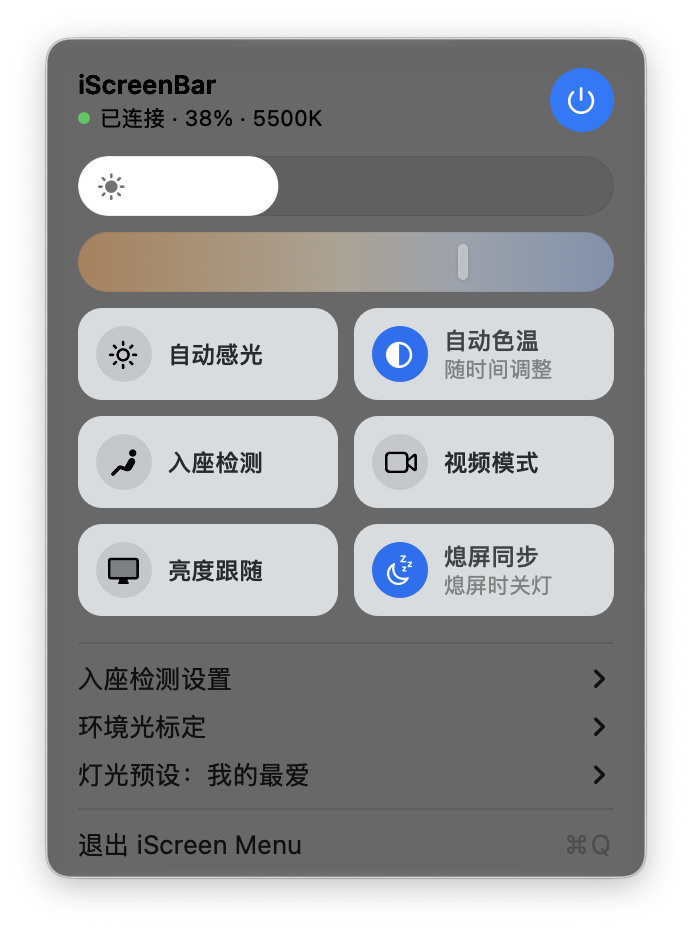
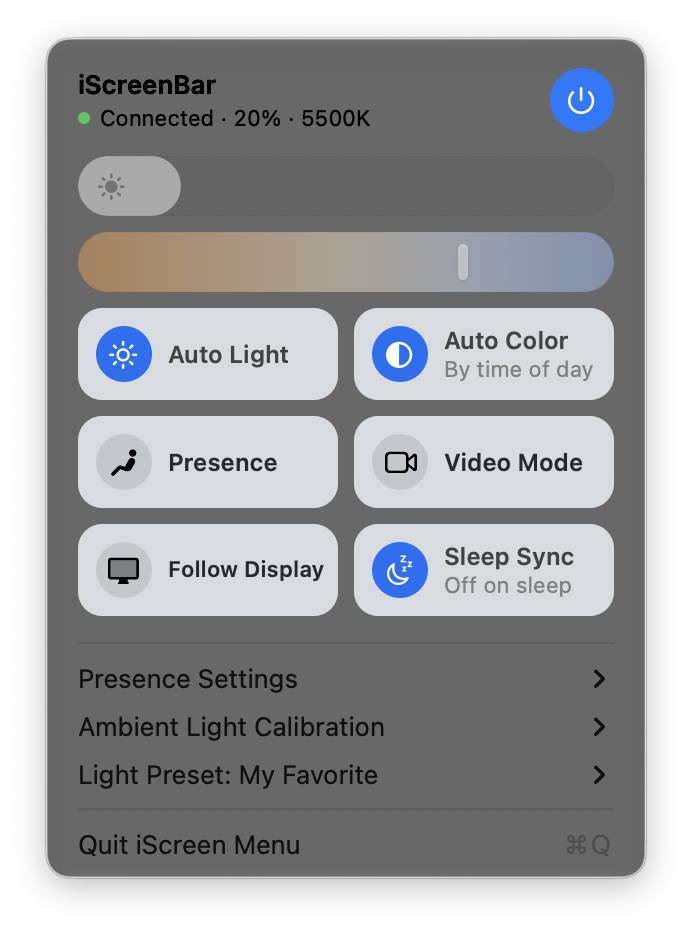
docs: translate docs to English and refresh screenshot

diff --git a/docs/FEATURES.md b/docs/FEATURES.md
@@ -1,0 +1,184 @@
+# iScreen Menu Feature List
+
+> Reflects the version currently installed from the `main` branch. This is an unofficial macOS menu bar tool that runs locally.
+
+## 1. Menu Bar and Runtime Status
+
+- Click the menu bar icon to open the system menu: the lighting panel is at the top, followed by native submenus and "Quit" (⌘Q).
+- Monochrome icon: the central ring is always lit, and the 8 rays around it light up according to brightness; the rays fade when the lamp is off or disconnected.
+- When the USB connection, Studio Display detection or the lamp power command fails, a small dot appears at the bottom right of the icon and the top of the panel shows "Sync error (同步异常)".
+- Hovering over the icon shows the current brightness and colour temperature of the iScreenBar.
+- The lamp state is read actively when the menu is opened; synchronisation and state read-back continue while the menu is expanded.
+- Runs automatically after login through a user-level LaunchAgent, with no administrator privileges required; after quitting from the menu it stays quit, and it restarts automatically only after an abnormal exit.
+
+## 2. Basic iScreenBar Control
+
+- **Lamp switch**: the round button at the top right of the panel turns the iScreenBar on or off directly.
+- **Brightness adjustment**: 1%--100%, adjustable with the slider in the panel.
+- **Colour temperature adjustment**: 2700K--6500K, adjustable in 100K steps.
+- **State read-back**: reads the power, brightness, main light/back light colour temperature, auto light, presence detection and video mode states.
+- **Manual operation compatibility**: after a physical button on the lamp changes its state, the tool reads the state again and refreshes the interface.
+- **Adjusting while the lamp is off**: dragging brightness/colour temperature, toggling Auto Light (自动感光) or applying a preset turns the lamp on first and writes the value after about 0.5 seconds; adjustments of the same kind made during the wait keep only the latest one. This does not turn the lamp on while an ambient light rule has switched it off.
+
+## 3. Studio Display Sleep Sync (熄屏同步)
+
+- When the Studio Display turns off its screen or goes to sleep, the iScreenBar is turned off automatically.
+- When the Studio Display wakes, the lamp is turned back on automatically if it was turned off by this tool.
+- While the screen is off, power synchronisation has the highest priority: lamp auto light, presence detection or any other logic must not turn the lamp back on.
+- The "Sleep Sync" toggle turns this feature on or off independently.
+
+## 4. iScreenBar Brightness Follows Studio Display
+
+- When Follow Display (亮度跟随) is turned on, the current brightness difference between the iScreenBar and the Studio Display is recorded.
+- After that, when the Studio Display brightness is adjusted, the iScreenBar changes by the same fixed difference.
+- The iScreenBar minimum brightness limit of 1% is preserved.
+- After it is turned off, the lamp keeps its current brightness and does not return to an old value.
+- Lamp auto light and this feature are mutually exclusive: turning one on turns the other off automatically, so that two brightness sources never control the lamp at the same time.
+
+## 5. Lamp Auto Light
+
+- The iScreenBar's built-in ambient light sensor can be turned on or off from the menu panel.
+- When on, the lamp's official auto light state is used; when off, the current manual brightness is written to exit auto mode.
+- The interface shows the actual state read back from the lamp, including a brief transition while the command is confirmed.
+- Known lamp firmware behaviour: the physical auto light button can enter or recalibrate auto mode, but may not exit it reliably; the menu panel can run a verifiable turn-off procedure.
+
+## 6. Studio Display Ambient Light Calibration (环境光标定) and Automatic On/Off
+
+- Reads the Studio Display ambient light sensor directly; the lamp's sensor is not used as the data source for this set of rules.
+- Uses the median of the samples from the last 10 seconds as the "ambient response score" to reduce momentary light fluctuations.
+- **Bright turn-off point**: the current value is captured when clicked; the lamp is turned off after the value stays above it for 30 seconds.
+- **Dim turn-on point**: the current value is captured when clicked; the lamp is turned on after the value stays below it for about 30 seconds.
+- After an ambient turn-off there is also a gradual turn-back-on path of about 45 seconds that tolerates small fluctuations, to avoid repeated flickering or the lamp staying off for too long.
+- The two calibration points can exist separately; setting both is not required.
+- A calibration button lights up briefly only when capture succeeds, and the saved value stays beside it.
+- A separate enable switch decides whether the saved thresholds are applied; turning it off does not delete the calibrated values.
+- If the turn-on point is higher than or equal to the turn-off point, the interface warns of a threshold overlap risk.
+- Once the ambient turn-off lock is engaged, lamp auto light and presence detection cannot turn the lamp back on.
+- If presence detection was on before the lamp was turned off, it is paused temporarily and resumes automatically after the ambient turn-off lock is released.
+- Sleep Sync has higher priority than the ambient light rules: when the screen is off, the lamp does not turn on even if the environment becomes dim.
+
+## 7. Presence / Away Detection
+
+- Lamp presence detection (入座检测) can be turned on or off in the panel.
+- Away time supports 3, 5 and 10 minutes.
+- Detection sensitivity supports three levels: low, medium and high.
+- Settings are sent to the lamp directly when it supports them; if sending fails, the local choice is kept and a log entry is written.
+- Works together with the ambient turn-off lock to avoid "the lamp turning back on when the person moves after it was turned off".
+
+## 8. Video Mode
+
+- The iScreenBar Video Mode (视频模式) can be turned on or off from the panel.
+- The video mode state is read back from the lamp and can be saved as part of a lighting mode preset.
+
+## 9. Auto Colour Temperature
+
+- "Auto Color (自动色温)" adjusts the lamp colour temperature smoothly according to the time of day.
+- 00:00--06:00: 3000K.
+- 06:00--10:00: gradual transition from 3000K to 5500K.
+- 10:00--16:00: 5500K.
+- 16:00--21:00: gradual transition from 5500K to 3500K.
+- 21:00--24:00: gradual transition from 3500K to 3000K.
+- Uses 50K as the internal transition step and writes to the lamp at most once per minute.
+- No colour temperature is written while the lamp is off or the Studio Display screen is off.
+- After auto colour temperature is turned off, the current colour temperature is kept.
+
+## 10. Lighting Mode Presets
+
+- Built-in "My Favorite (我的最爱)" default: 47% / 5500K / video mode off.
+- Built-in "Night Work (夜间工作)": 30% / 4000K / video mode off.
+- Built-in "Wind Down (睡前放松)": 20% / 3000K / video mode off.
+- The current brightness, colour temperature and video mode can be saved as a custom scene.
+- The "Mode Center (模式中心)" lists the available modes and supports quick application.
+- Applying a preset automatically turns the lamp on, writes brightness and colour temperature, sets the video mode, and turns off iScreenBar brightness follow.
+- The current lighting mode can be bound to a specific macOS app; when the foreground app changes, the corresponding mode is applied automatically.
+
+## 11. USB Disconnection, Reconnection and Fault Tolerance
+
+- The iScreenBar USB HID connection is checked every 2 seconds.
+- When the lamp is unplugged, loses power or HID commands stop working, the icon shows the error dot and a log entry is written.
+- After the lamp is plugged back in, the HID Manager is rebuilt, the state is read again, and the sleep sync and brightness follow locks are restored.
+- When the Studio Display is disconnected the program stays resident, and after it reconnects the display listener and the ambient light sensor connection are rebuilt automatically.
+- All key states and errors are written to `~/Library/Logs/iScreenBarStudioSync.log`.
+
+## 12. Interface and Interaction
+
+- Native AppKit system menu, no Dock icon required, adapts automatically to light/dark mode.
+- Two-column toggle cards: the round SF Symbols icon uses the accent colour when on, and some toggles show a short description when on.
+- The brightness slider has a white fill; the colour temperature slider is a warm-to-cool gradient with a white marker; clicking anywhere on the track jumps to that position, and the value is written to the lamp on release.
+- The brightness slider is greyed out when auto light is on, and the colour temperature slider is greyed out when auto colour temperature is on; related controls are greyed out when the lamp is offline.
+
+## 13. Local Storage, Privacy and Installation
+
+- All switches, thresholds, presets and app bindings are stored in the local `UserDefaults`.
+- No account, cloud service, network API or analytics is required.
+- The install script compiles locally, signs ad hoc, installs to `~/Applications`, and creates a user-level LaunchAgent.
+- The uninstall script stops the service and moves the installed app and the LaunchAgent to the Trash; the log is kept by default for troubleshooting.
+
+## 14. Implementation Limits and Risk Notes
+
+- Verified on an Apple Silicon Mac, macOS 26, Apple Studio Display and BenQ iScreenBar `VID 0x04A5 / PID 0x2501`.
+- iScreenBar control uses a device-specific 33-byte HID report; compatibility with other models is not guaranteed.
+- Studio Display brightness reading uses the private macOS DisplayServices interface, which needs regression testing on real hardware after system upgrades.
+- The Studio Display is identified by Apple vendor ID 0x0610 and product IDs 0xAE46 / 0xAE3A; models not listed are identified by the display name "Studio Display".
+- Some details of lamp auto light and presence detection depend on the lamp firmware version.
+
+## 15. Feature Priority
+
+1. Studio Display sleep sync: the lamp stays off while the screen is off.
+2. Studio Display ambient turn-off lock: once the bright threshold is reached, presence detection, auto light and manual adjustment are prevented from turning the lamp back on.
+3. Lamp auto light and iScreenBar brightness follow are mutually exclusive.
+
+## 16. Differences from the Official BenQ iScreenBar App
+
+> The comparison is based on the official BenQ iScreenBar product page, quick start guide and public feature descriptions. The official app is updated by region and version; the comparison below is based on public material as of August 2026 and the official app on this machine.
+
+### 16.1 Features Both Have
+
+| Feature | Official BenQ App | This tool | Main difference |
+| --- | --- | --- | --- |
+| Lamp switch | Supported | Supported | This tool adds USB offline error indication and reconnection recovery. |
+| Brightness and colour temperature | Supported | Supported | The official app advertises stepless 0--100% brightness and 2700K--6500K; this tool writes the steps that can be verified over the lamp's HID interface. |
+| Auto light | Supported | Supported | Both use the lamp's ambient light sensor; this tool additionally handles mutual exclusion with brightness follow. |
+| Presence detection | Supported | Supported | The official app uses a 24GHz millimetre-wave sensor and allows the detection range to be adjusted; this tool provides away time and sensitivity controls. |
+| Video mode | Supported | Supported | The official app can enable it automatically together with the iMac camera; this tool currently relies mainly on a manual switch and mode presets. |
+| Lighting modes | Supported | Supported | Both can save combinations of brightness, colour temperature and so on. |
+| Per-app mode binding | Supported | Supported | Both can apply the corresponding lighting mode when the foreground app changes. |
+| Turn lamp on/off with the display | Supported | Supported | The official app targets compatible iMacs; this tool fills in the standalone Studio Display screen-off scenario. |
+
+### 16.2 Features This Tool Adds over the Official App
+
+- **Dedicated Studio Display support**: the officially published compatibility range is 2021 and later iMacs and does not include the Apple Studio Display; this tool specifically listens for Studio Display sleep, screen-off, wake and disconnect/reconnect.
+- **Studio Display brightness linked to the lamp**: keeps the brightness difference between the lamp and the display, and changes the iScreenBar in step when the Studio Display is adjusted.
+- **Studio Display ambient light threshold control**: the "bright turn-off point" and "dim turn-on point" can be captured separately, and the lamp is turned on and off automatically using the median, duration and priority rules.
+- **Auto colour temperature**: changes smoothly between 3000K--5500K according to the time of day, rather than relying only on manual steps or fixed modes.
+- **Visible health status**: the menu bar icon shows brightness by the number of rays, shows an indicator dot on errors, and shows brightness and colour temperature on hover.
+- **Clearer rule priorities**: there are explicit mutual exclusion and recovery rules among sleep, ambient turn-off, presence detection, auto light and brightness follow.
+- **USB fault tolerance and logging**: the HID Manager is rebuilt automatically after the lamp is unplugged and replugged, and a local log is kept for troubleshooting.
+- **Local and auditable**: configuration is stored only on this machine, with no account, cloud or analytics; the source code is public under the MIT licence.
+
+### 16.3 Where the Official App Currently Has the Advantage
+
+- **Official signing, release and firmware support**: the official app is maintained by BenQ and has formal support for firmware upgrades, regional versions and lamp protocol changes.
+- **Native iMac compatibility**: the official app is designed around the hardware, power supply, camera and wake flow of 2021 and later iMacs, so its compatibility boundary is clearer.
+- **Automatic video mode from the camera**: official material states that camera mode can be activated automatically when connected through the iMac USB-C port; this tool does not yet implement reliable detection of camera use.
+- **Official lamp memory semantics**: the "My Favourite / memory" stored on the lamp itself is managed by the firmware; this tool's mode presets are mainly stored in the Mac's `UserDefaults`, which is not the same kind of hardware memory.
+- **Polish and support channels**: the official app has more complete onboarding, upgrades, signing, notarisation, customer service and warranty support.
+- **Lower risk on system upgrades**: this tool reads Studio Display brightness through a private macOS interface and must be re-verified after system upgrades.
+
+### 16.4 Not Yet Fully Aligned or Still to Be Verified
+
+- Automatically switching video mode when the camera is enabled.
+- The protocol the official app uses to read, overwrite and recall the lamp's hardware "My Favourite" memory.
+- All time steps of the official presence detection and the sensitivity mapping across firmware versions.
+- The exact behaviour of official mode binding when apps quit, in full screen, across multiple Spaces and in multi-user sessions.
+- Developer ID signing, notarisation, automatic updates and a one-click install experience for ordinary users.
+
+### 16.5 One-Sentence Positioning
+
+**The official app is complete first-party control software for compatible iMacs; this tool keeps the main lamp control capabilities and adds sleep sync, brightness linkage, ambient light rules and fault recovery for the Studio Display.**
+
+### 16.6 Official References
+
+- [BenQ iScreenBar official product page](https://www.benq.com/en-us/lighting/monitor-light/iscreenbar.html)
+- [BenQ iScreenBar quick start guide](https://www.benq.com/en-us/qsg/iscreenbar/guide.html)
+- [BenQ iScreenBar specifications and compatible models](https://www.benq.com/en-us/lighting/monitor-light/iscreenbar/spec.html)

diff --git a/README.md b/README.md
@@ -1,37 +1,40 @@
 # iScreen Menu
-**菜单栏里的 BenQ iScreenBar 灯控：亮度、色温、自动感光，以及与 Studio Display 的熄屏同步和亮度跟随。**
+**BenQ iScreenBar control from the macOS menu bar: brightness, colour temperature, auto light, plus Studio Display sleep sync and brightness follow.**
 
-<img src="docs/images/menu.png" alt="iScreen Menu 菜单面板" width="345"> <img src="docs/images/menu-bar-icon.png" alt="菜单栏图标" width="36">
+<img src="docs/images/menu.png" alt="iScreen Menu panel" width="345"> <img src="docs/images/menu-bar-icon.png" alt="Menu bar icon" width="36">
 
-本仓库 fork 自 [rogerbush007-a11y/iScreenBar-StudioDisplay-Sync](https://github.com/rogerbush007-a11y/iScreenBar-StudioDisplay-Sync)，只保留与灯光相关的功能，并重做了菜单界面。非官方独立项目，与 BenQ、Apple 无隶属关系，以 MIT 许可证发布。
+This repository is a fork of [rogerbush007-a11y/iScreenBar-StudioDisplay-Sync](https://github.com/rogerbush007-a11y/iScreenBar-StudioDisplay-Sync). It keeps only the lamp-related features and has a redesigned menu. It is an unofficial, independent project, not affiliated with BenQ or Apple, and released under the MIT licence.
 
-## 本 fork 的改动
+The interface is in English, with a Simplified Chinese translation that is used automatically when Chinese is your preferred macOS language. Chinese labels are shown in parentheses below.
 
-- **原生菜单界面**：弹出气泡改为系统菜单；顶部为灯光面板，下方为原生子菜单与“退出”（⌘Q），自动适配浅色/深色模式。
-- **只保留灯光功能**：移除内屏开关与旋转、旋转预设、Studio Display 黑色遮罩、防止休眠、MacBook 与 Studio Display 双屏亮度锁定、锁屏时立即熄屏。App 不再请求管理员权限。
-- **菜单栏图标**：单色圆环，周围 8 条光芒按亮度依次点亮；同步异常时右下角显示小圆点。
-- **Studio Display 识别**：除型号 0xAE46 外，也识别 0xAE3A 及名称为 “Studio Display” 的屏幕；此前部分 Studio Display 无法识别，熄屏同步与亮度跟随不会生效。
-- **灯关闭时也可调节**：拖动亮度/色温或切换自动感光、应用灯光预设时先开灯再写入（灯关闭时固件会忽略这些指令）。
-- **稳定性**：菜单展开时同步与状态回读不中断；从菜单退出后不再被 LaunchAgent 自动拉起，仅在异常退出时重启；声明最低系统版本 macOS 14。
+## Changes in this fork
 
-## 界面与功能
+- **English UI with Chinese translation**: follows your macOS language; previously the interface was Chinese only.
+- **Native menu**: the popover is replaced by a standard macOS menu, with the lamp panel at the top, native submenus below and Quit (⌘Q). It follows light and dark mode.
+- **Lamp features only**: removed the built-in display switch and rotation, rotation presets, the Studio Display black overlay, keep-awake, the MacBook ↔ Studio Display brightness lock, and sleeping the displays on lock. The app no longer asks for an administrator password.
+- **Menu bar icon**: a monochrome ring with 8 rays that light up with brightness; a small dot appears at the bottom right when there is a sync problem.
+- **Studio Display detection**: besides model 0xAE46, model 0xAE3A and any screen named "Studio Display" are recognised. Previously some Studio Displays were not detected, so sleep sync and brightness follow silently did nothing.
+- **Adjust while the lamp is off**: changing brightness, colour temperature or auto light, or applying a light preset, turns the lamp on first and then applies the change (the firmware ignores these commands while the lamp is off).
+- **Reliability**: sync and status updates keep running while the menu is open; choosing Quit keeps the app closed (the LaunchAgent only restarts it after a crash); the minimum system version is declared as macOS 14.
 
-详见 [界面使用指南](docs/UI-GUIDE.zh-CN.md) · [完整功能清单](docs/FEATURES.zh-CN.md)。
+## Interface and features
 
-| 区域 | 功能 |
+See the [UI guide](docs/UI-GUIDE.md) and the [full feature list](docs/FEATURES.md).
+
+| Area | What it does |
 | --- | --- |
-| 顶部 | 连接状态、当前亮度与色温；右侧圆形按钮开关灯 |
-| 滑块 | 亮度（白色填充）与 2700–6500K 色温（暖到冷渐变）；自动感光开启时亮度滑块置灰，自动色温开启时色温滑块置灰 |
-| 开关 | 自动感光、自动色温、入座检测、视频模式、亮度跟随、熄屏同步 |
-| 子菜单 | 入座检测设置（离席时间、灵敏度）、环境光标定、灯光预设与模式中心 |
+| Header | Connection status, current brightness and colour temperature; the round button on the right turns the lamp on or off |
+| Sliders | Brightness and 2700–6500K colour temperature. The brightness slider is disabled while Auto Light is on; the colour slider is disabled while Auto Color is on |
+| Toggles | Auto Light (自动感光), Auto Color (自动色温), Presence (入座检测), Video Mode (视频模式), Follow Display (亮度跟随), Sleep Sync (熄屏同步) |
+| Submenus | Presence settings (away time, sensitivity), Ambient light calibration, Light presets and Mode Center |
 
-App 不占 Dock 位置，悬停图标显示亮度和色温。
+The app has no Dock icon. Hover over the menu bar icon to see brightness and colour temperature.
 
-## 安装
+## Installation
 
-已测试：Apple Silicon Mac、macOS 26–27、Studio Display、BenQ iScreenBar（USB VID 0x04A5 / PID 0x2501）。其他系统和设备尚未全面验证；需要 macOS 14 或更高版本。
+Tested on Apple Silicon Macs with macOS 26–27, Apple Studio Display and BenQ iScreenBar (USB VID 0x04A5 / PID 0x2501). Other systems and devices have not been fully verified. Requires macOS 14 or later.
 
-先安装 Xcode Command Line Tools，然后运行：
+Install the Xcode Command Line Tools, then run:
 
 ```bash
 xcode-select --install
@@ -40,17 +43,17 @@ cd iScreenBar-StudioDisplay-Sync
 ./scripts/install.sh
 ```
 
-脚本本机编译、临时签名，安装到 `~/Applications/iScreen Menu.app`，创建用户级 LaunchAgent，登录后自动运行。安装和使用都不需要管理员密码。
+The script compiles locally, signs ad hoc, installs to `~/Applications/iScreen Menu.app` and creates a per-user LaunchAgent so the app starts at login. Neither installing nor using the app needs an administrator password.
 
-日常灯控直接通过 USB HID 执行，不依赖官方 App。建议避免两个软件同时自动写入灯光设置。相机自动视频模式和灯体硬件记忆尚未完全对齐，不宣称完整替代官方所有功能。
+Lamp control talks to the lamp directly over USB HID and does not depend on the official app. Avoid running two programs that both write lamp settings automatically. Camera-triggered video mode and the lamp's hardware memory are not fully matched, so this is not a complete replacement for every feature of the official app.
 
-## 使用规则
+## Behaviour
 
-- 亮度跟随与灯体自动感光互斥，关闭跟随后保留当前亮度。
-- 熄屏同步开启时，Studio Display 熄屏即关灯；希望熄屏后保持灯亮，请关闭“熄屏同步”。
-- 环境光采用近 10 秒中位数。明亮关灯约 30 秒，达到昏暗开灯点约 30 秒；环境关灯后的渐进回开约 45 秒。带回差与持续时间判断，不是越过数值就立即切换。环境光规则关灯期间，调节滑块不会重新开灯。
+- Follow Display and the lamp's own auto light are mutually exclusive; turning follow off keeps the current brightness.
+- With Sleep Sync on, the lamp turns off when the Studio Display sleeps. To keep the light on while the display sleeps, turn Sleep Sync off.
+- Ambient light uses the median of the last 10 seconds. Turning off at the bright threshold takes about 30 s, turning on at the dark threshold about 30 s, and the gradual turn-on after an ambient turn-off about 45 s. Hysteresis and minimum durations apply, so crossing a value does not switch immediately. While an ambient rule is holding the lamp off, moving a slider does not turn it back on.
 
-## 验证与限制
+## Verification and limitations
 
 ```bash
 ./scripts/check.sh
@@ -58,16 +61,16 @@ tail -f ~/Library/Logs/iScreenBarStudioSync.log
 launchctl print gui/$(id -u)/local.qiu.iScreenBarStudioSync
 ```
 
-亮度读取使用 macOS 私有 DisplayServices 接口，系统升级后需要复测。USB 报文针对特定灯型，其他 ScreenBar 型号不保证兼容。构建通过、系统状态回读不代表面板确实发光。
+Reading the Studio Display brightness uses the private macOS DisplayServices framework, so re-test after system updates. The USB reports are specific to this lamp model; other ScreenBar models are not guaranteed to work. A successful build or status read-back does not prove the lamp is actually lit.
 
-## 卸载与开发
+## Uninstall and development
 
 ```bash
 ./scripts/uninstall.sh
-# 仅构建，不安装：
+# Build only, without installing:
 ./scripts/build.sh
 ```
 
-卸载将 App 和 LaunchAgent 移至废纸篓，保留日志。构建产物位于 `build/iScreen Menu.app`。目前为本机临时签名，无 Developer ID 公证或自动更新。
+Uninstalling moves the app and the LaunchAgent to the Trash and keeps the log. The build output is `build/iScreen Menu.app`. Builds are signed ad hoc on your Mac; there is no Developer ID notarisation or auto-update.
 
-源码无网络请求、分析或云端依赖。参见 [安全说明](SECURITY.md)、[商标声明](NOTICE.md)、[MIT 许可证](LICENSE)。
+The source makes no network requests and has no analytics or cloud dependencies. See [Security](SECURITY.md), [Trademark notice](NOTICE.md) and the [MIT licence](LICENSE).

diff --git a/docs/UI-GUIDE.md b/docs/UI-GUIDE.md
@@ -1,0 +1,55 @@
+# iScreen Menu UI Guide
+
+This page walks through the menu from top to bottom. Click the menu bar icon to open the menu; click anywhere outside it or press Esc to close it. Labels are shown in English; the Chinese labels used when macOS is set to Chinese are in parentheses.
+
+<img src="images/menu.png" alt="iScreen Menu panel" width="345">
+
+## 1. Header and power
+
+The left side shows "iScreenBar" and the connection status: a green dot means connected, orange means sync error (同步异常, usually the Studio Display was not detected), grey means the lamp is not connected. When the lamp is on, the status line also shows the current brightness and colour temperature.
+
+The round button on the right turns the lamp on or off; it is blue when the lamp is on.
+
+## 2. Brightness and colour temperature
+
+- **Brightness (亮度)**: the longer the white fill, the brighter. 1% is the lowest the lamp goes and does not mean fully off; use the power button to turn it off.
+- **Colour temperature (色温)**: warm on the left, cool on the right; the white marker shows the current value.
+
+Changes are sent to the lamp when you release the slider. If the lamp is off, moving a slider turns it on first. The brightness slider is disabled while Auto Light is on (the lamp's sensor controls brightness); the colour slider is disabled while Auto Color is on.
+
+## 3. Toggles
+
+A toggle's icon is highlighted when it is on, and some toggles show a short note while on. Hover to see a full description.
+
+| Toggle | What it does |
+| --- | --- |
+| Auto Light (自动感光) | The lamp's own sensor controls brightness; mutually exclusive with Follow Display |
+| Auto Color (自动色温) | Gradually adjusts colour temperature by local time of day; it does not measure the room's colour temperature |
+| Presence (入座检测) | The lamp turns off after you leave; set the time and sensitivity in Presence settings |
+| Video Mode (视频模式) | Fill-light mode for video calls |
+| Follow Display (亮度跟随) | First set the lamp and the Studio Display to comfortable levels, then turn this on to lock in the difference |
+| Sleep Sync (熄屏同步) | Turns the lamp off when the Studio Display sleeps and restores it on wake |
+
+## 4. Presence Settings (入座检测设置)
+
+Choose the away time (3/5/10 minutes) and detection sensitivity (low/medium/high) in the submenu. While an ambient rule has turned the lamp off or the display is asleep, presence detection is paused and restored afterwards.
+
+## 5. Ambient Light Calibration (环境光标定)
+
+When the room feels bright enough, choose "Set Current Light as Off Point"; when you need extra light, choose "Set Current Light as On Point". Each records the Studio Display sensor value. "Turn Light On/Off by Ambient Light" reuses the saved thresholds, so you don't need to recalibrate every day. The bottom of the submenu shows the current ambient value and calibration status.
+
+The ambient value is a filtered, relative reading from the Studio Display sensor, not a calibrated lux meter. Turning off and quick turn-on each need about 30 seconds of sustained light level; gradual turn-on takes about 45 seconds; values in between may keep the current state. Sleep Sync takes priority: a darker room cannot turn the lamp on while the display is asleep.
+
+## 6. Light Presets (灯光预设)
+
+Presets save brightness, colour temperature and video mode. "Mode Center…" (模式中心设置…) lets you add scenes and bind them to the frontmost app. These presets are separate from the lamp's own hardware memory.
+
+## Menu bar icon
+
+<img src="images/menu-bar-icon.png" alt="Menu bar icon" width="36">
+
+The centre ring is always shown. The 8 rays light up clockwise from the top as brightness increases (about 12.5% each); all rays are faint when the lamp is off or disconnected. A small dot appears at the bottom right when there is a sync problem.
+
+## Feedback
+
+Behaviour can differ between firmware and macOS versions. When reporting a problem, please include the macOS version, device models, steps to reproduce and a redacted log.
